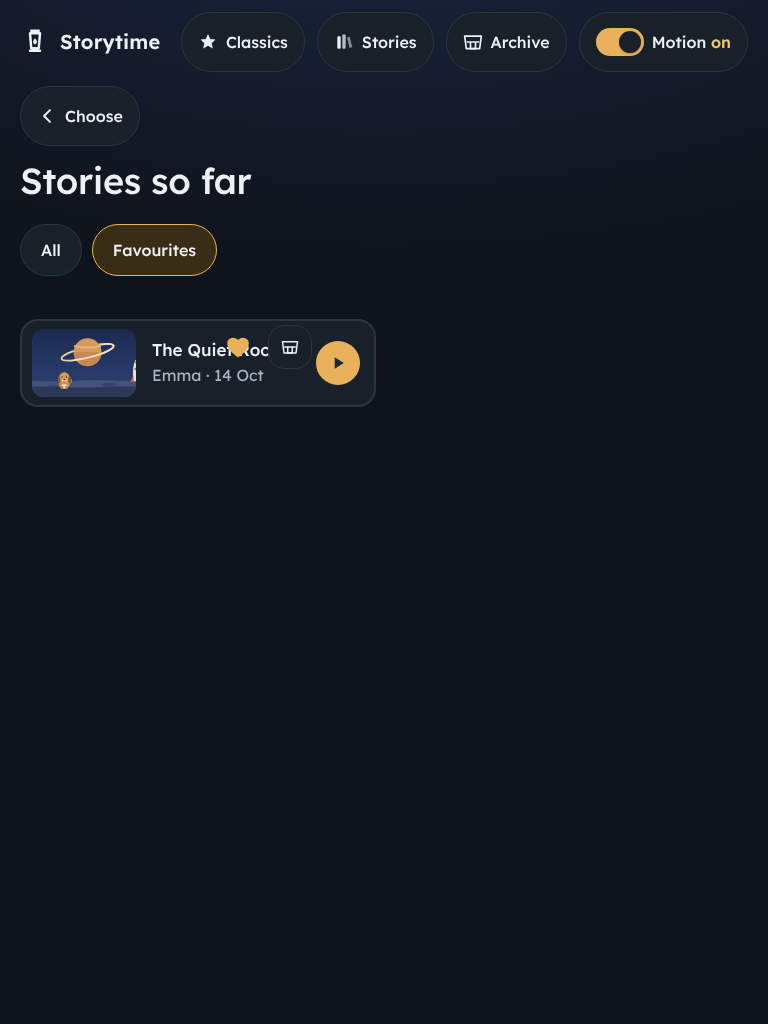
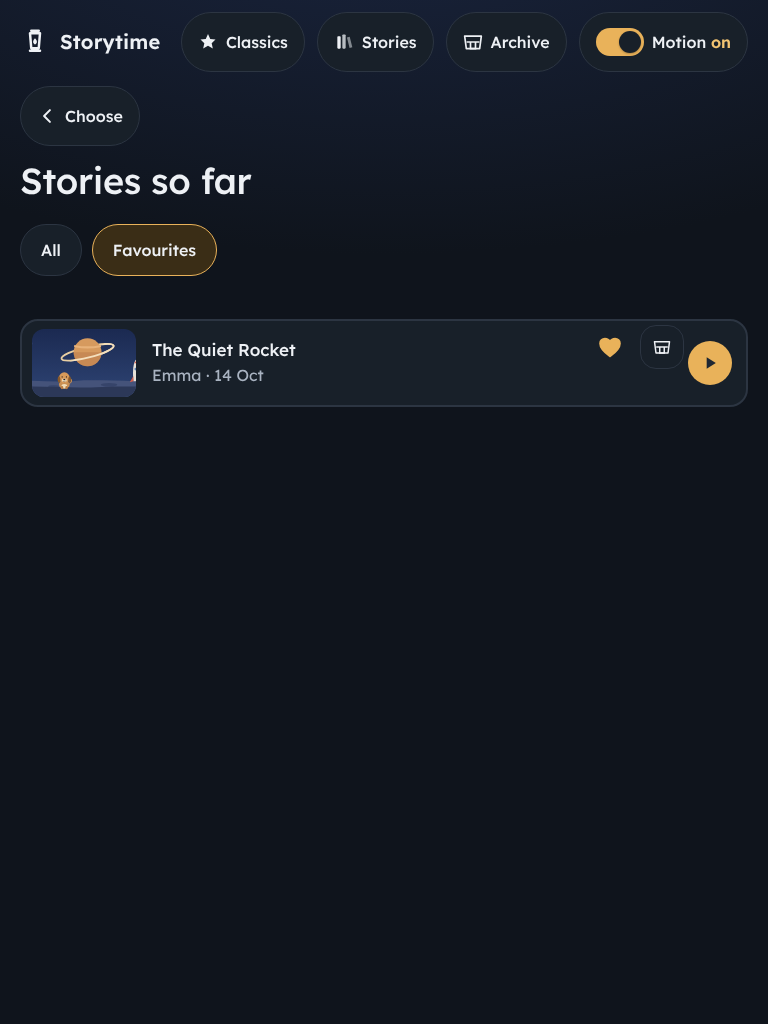
fix: corrupt favorites file, hearts no longer cover shelf titles
favorites.json with invalid UTF-8 returned 500 from every collection
endpoint; read it as an empty list on any decode error. The row actions
now reserve space in the text column, and the shelf is one column up to
900 px so a narrow portrait iPad row keeps room for the title. A browser
check measures that no heart or archive button overlaps title text.

diff --git a/static/index.html b/static/index.html
@@ -332,9 +332,12 @@ html:not(.js) .chips,html:not(.js) .next,html:not(.js) .prev{display:none}
 .skip-btn[aria-disabled="true"]:active .disc{transform:none;background:var(--panel);border-color:var(--line)}
 .skip-label{font-size:15px;font-weight:500;line-height:1;color:var(--muted)}
 .book{display:grid;grid-template-columns:104px 1fr 44px;align-items:center;gap:16px;min-height:76px;padding:8px 14px 8px 10px;border-radius:18px;background:var(--panel);border:2px solid var(--line);text-align:left;transition:border-color .2s var(--ease),box-shadow .25s var(--ease),transform .2s var(--ease);animation:rise .5s var(--ease) both;animation-delay:calc(var(--i,0)*70ms);width:100%}
-.saved-row{position:relative}
+.saved-row{position:relative;--actions:90px}
+.saved-row.solo{--actions:40px}
+.saved-row .meta{padding-right:var(--actions)}
 .saved-row .book-actions{position:absolute;top:4px;right:64px;z-index:2;justify-content:flex-end}
 @media(max-width:700px){.saved-row .book-actions{right:6px}}
+@media(max-width:900px){.books{grid-template-columns:1fr}}
 .book:hover{border-color:var(--ring);box-shadow:0 18px 30px -24px rgba(10,15,30,.6);transform:translateY(-2px)}
 .book .cover{width:104px;height:68px;border-radius:12px;display:block}
 .book strong{display:block;font-weight:500;font-size:17px;line-height:1.3}
@@ -1373,7 +1376,7 @@ function classicCover() {
   return '<svg class="cover" viewBox="200 40 600 380" preserveAspectRatio="xMidYMid slice" aria-hidden="true"><rect x="0" y="-600" width="1000" height="1020" fill="url(#g-night)"/><circle cx="500" cy="120" r="40" fill="#f4ecd2"/><circle cx="486" cy="110" r="7" fill="#e6d9b0"/><circle cx="512" cy="130" r="9" fill="#e6d9b0"/><g fill="#f4ecd2"><circle cx="300" cy="90" r="2.4"/><circle cx="420" cy="50" r="2"/><circle cx="600" cy="70" r="2.6"/><circle cx="700" cy="130" r="2"/><circle cx="240" cy="180" r="2"/><circle cx="760" cy="200" r="2.4"/></g></svg>';
 }
 function classicRow(s, i, status) {
-  const row = document.createElement('div'); row.className = 'saved-row'; row.setAttribute('role', 'listitem');
+  const row = document.createElement('div'); row.className = 'saved-row solo'; row.setAttribute('role', 'listitem');
   const b = document.createElement('button'); b.type = 'button'; b.className = 'book'; b.style.setProperty('--i', i);
   b.innerHTML = classicCover() + '<span class="meta"><strong></strong><span class="when"></span></span><span class="go" aria-hidden="true"><svg viewBox="0 0 24 24"><use href="#i-play"/></svg></span>';
   b.querySelector('strong').textContent = s.title;

diff --git a/test_storytime.py b/test_storytime.py
@@ -638,6 +638,20 @@ class StorytimeCheck(unittest.TestCase):
                     self.assertEqual(client.post(f'/api/favorites/{bad}').status_code, 404)
             self.assertFalse((Path(directory) / 'favorites.json').exists())
 
+    def test_corrupt_favorites_file_does_not_break_the_shelves(self):
+        import server
+        from fastapi.testclient import TestClient
+        client = TestClient(server.app)
+        for junk in (b'\xff\xfe', b'{not json', b'null', b'{"a": 1}'):
+            with self.subTest(junk=junk), tempfile.TemporaryDirectory() as directory, patch.object(server, 'STORIES', Path(directory)):
+                (Path(directory) / 'favorites.json').write_bytes(junk)
+                self.assertEqual(client.get('/api/favorites').json(), [])
+                self.assertEqual(client.get('/api/stories').status_code, 200)
+                classics = client.get('/api/classics')
+                self.assertEqual(classics.status_code, 200)
+                self.assertFalse(any(c['favorite'] for c in classics.json()))
+                self.assertTrue(client.post(f"/api/favorites/{server.classics.CLASSICS[0]['id']}").json()['favorite'])
+
 
 class PassResult(unittest.TextTestResult):
     def addSuccess(self, test):

diff --git a/server.py b/server.py
@@ -598,7 +598,7 @@ def read_favorites():
     try:
         with store_lock:
             ids = json.loads((STORIES / 'favorites.json').read_text())
-    except (OSError, json.JSONDecodeError):
+    except (OSError, ValueError):  # ValueError covers bad JSON and bad UTF-8
         return []
     return [i for i in ids if isinstance(i, str)] if isinstance(ids, list) else []
 
